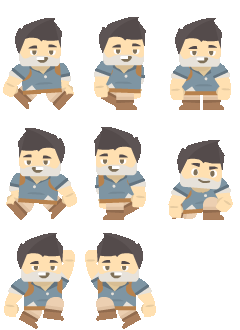
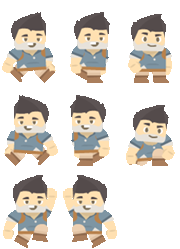
(Quick Fix) Added animations (#10)
Fixed:
 - Player size is now reduced. Collision problems "should" be fixed.
 - Player is spawned above the floor.

diff --git a/Scripts/core/load.js b/Scripts/core/load.js
@@ -4,7 +4,7 @@ var loadState = {
     preload: function(){
         game.load.image('tileSet1', "Assets/TileMaps/tileSet1.png");
         game.load.tilemap('tileMap', "Assets/TileMaps/map.json", null, Phaser.Tilemap.TILED_JSON);
-        game.load.spritesheet('player', "Assets/img/tempGameAssets/Player.png", 80, 110);
+        game.load.spritesheet('player', "Assets/img/tempGameAssets/Player.png", 60, 83);
         game.load.image('bullet', "././Assets/img/tempGameAssets/tempBullet.png");
         game.load.image('bigBubble', "././Assets/img/tempGameAssets/tempBigBubble.png");
         game.load.image('medBubble', "././Assets/img/tempGameAssets/tempMediumBubble.png");

diff --git a/Scripts/core/play.js b/Scripts/core/play.js
@@ -40,7 +40,7 @@ var playState = {
     },
 
     createPlayer: function () {
-        var player = game.add.sprite(game.width/2, 780, 'player');
+        var player = game.add.sprite(game.width/2, 600, 'player');
         player.anchor.setTo(0.5, 0.5);
         game.physics.arcade.enable(player);
         player.body.gravity.y = 1500;
